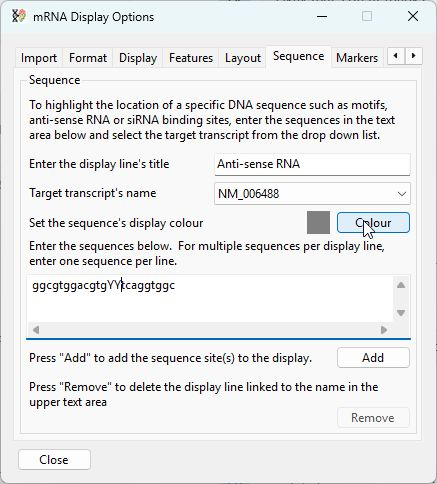
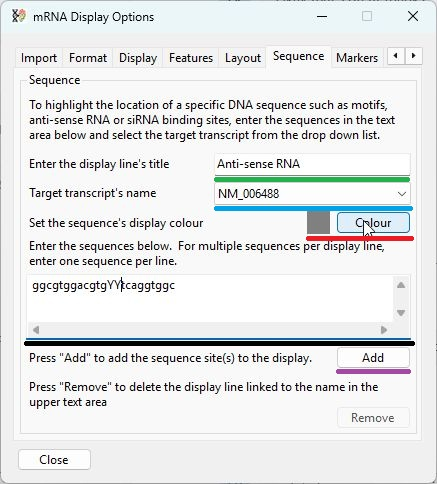
Updating the user guide

Changed region(s): [[0.476, 0.3409, 0.9519, 0.5269], [0.0595, 0.6818, 0.9519, 0.7128], [0.7735, 0.7438, 0.9519, 0.7748]]

diff --git a/TransGBViewer/mRNADisplayOptions.cs b/TransGBViewer/mRNADisplayOptions.cs
@@ -3203,6 +3203,9 @@ namespace TransGBViewer
         }
         private void txtSequenceDisplayname_TextChanged(object sender, EventArgs e)
         {
+            string name = txtSequenceDisplayname.Text.Trim();
+            if (name.Contains("#") == true)
+            { txtSequenceDisplayname.Text = name.Replace("#", ""); }
             SetSequenceButtonActivity();
         }
 
@@ -3329,7 +3332,7 @@ namespace TransGBViewer
                         (sequence[inner] == 'y' && (target[inner + index] == 'c' || target[inner + index] == 't')))
                     { score += 1; }
                 }
-                if ((float)score / sequencelength > scoreCutoff)
+                if ((float)score / sequencelength >= scoreCutoff)
                 {
                     if (score == bestScore) { hits.Add(index); }
                     if (score > bestScore)

diff --git a/Guide/SequencesOfInterest.md b/Guide/SequencesOfInterest.md
@@ -1,12 +1,98 @@
 ## List of contents
-
-
+- [Highlighting DNA sequences of interest](#highlighting-dna-sequences-of-interest)
+    - [Creating a display line](#creating-a-display-line)
+    - [Hit detection](#sequence-hit-detection)
+    - [Removing a display line](#removing-a-display-line)
+    - [Hit detection](#hit-detection)
 ---
 
 # Highlighting DNA sequences of interest
 
+## Creating a display line
+
 ![Figure 1](images/figureSequence1.jpg)
 
-The __Sequence__ tab of the __mRNA Display Options__ window provides controls for the selection and display of sequence's entered by the user. These sequences could represent the target site of an anti-sense RNA, a PCR primer binding site or region of interest  (Figure 1).
+The __Sequence__ tab of the __mRNA Display Options__ window provides controls for the selection and display of sequences entered by the user. These sequences could represent the target site of an anti-sense RNA, a PCR primer binding site or a region of interest  (Figure 1).
 
-The  __Sequence__ tab contains two text areas, a button and a drop-down list  that are used to describe the sequence(s) of interest. The upper area (blue line in Figure 2) 
+The process by which a line is added to the image that displays the location of a sequence of interest consists of four or five steps. 
+
+![Figure 2](images/figureSequence2.jpg)
+
+Figure 2
+
+---
+- First enter the label you wish the data line to display in the upper text area (green line in Figure 2). This label will also be used to identify the line and so must be unique as well as over three characters long. __Note:__  The __'#'__ cannot be used.
+- Next, select the accession ID of the sequence you know contains the sequence of interest using the drop-down list (blue line in Figure 2).
+- Optional: select the colour used to fill the shape that indicates the location of the sequence by pressing the __Colour__ button (red line in Figure 3).  By default, the shape is grey, as shown by the square to the left of the __Colour__ button. Pressing this button displays a window called __Select the shape's colour__ (Figure 3). This window in turn allows a colour to be selected by either its Windows system name if the __List of names__ option is selected (black line in Figure 12a) or using the Windows __colour picker dialog__ window if the Colour dialog box option is selected (green line in Figure 12) when the Colour button is pressed (red line in Figure 3).   
+
+    - [Using the Select colour by name dialog box](SequenceColour.md)
+    - [Using the Windows colour picker dialog box](ColourPickerDialog.md)
+
+![Figure 3](images/figureSequence2b.jpg)
+
+Figure 3.
+
+---
+
+- Next, enter the sequence(s) of interest into the lower larger text area (black line in Figure 2). These sequences must be in the same sense as the sequence in the transcript and not its reverse complement; consequently, anti-sense RNA or siRNA sequences must be reverse complemented. See the section [Hit detection](#Hit-detection). If you want to display more than one sequence on a display line, enter each sequence on a new line in the text area.
+- Finally, press the __Add__ button (purple line in Figure 2) to import and display the sequences. See Figures 4a and 4b.
+
+
+![Figure 4a](images/figureSequence3a.jpg)
+
+Figure 4a: To add a display line, first enter the require information in the __Sequence__ tab.
+
+
+
+![Figure 4b](images/figureSequence3b.jpg)
+
+Figure 4b: Once the information has been entered, pressing the __Add__ button clears the form and displays any hits in the image window.
+
+---
+
+## Removing a display line
+
+To remove a line displaying a sequence's location, enter the display line's label in the upper text area (green line in Figure 5) and the sequence used as the target in the drop-down list (blue line in Figure 5). If these values match a display line, the __Remove__ button will become active, and pressing it will remove the corresponding display line.
+
+__Note:__ The display line's text is case sensitive so __Anti-sense RNA__, __anti-sense RNA__, and __Anti-Sense RNA__ are all different and not interchangeable.
+
+
+## Hit detection
+Important points:
+
+- The search sequence can contain the upper and lower case letters: _A_, _C_, _G_ _T_, _R_, _Y_, _S_ and _W_, but not _U_. 
+- If a sequence contains _A_, _C_, _G_ _T_, _R_, _Y_, _S_ and _W_ characters, matches score as  1; for example, if __R__ is aligned to an __A__, the match is scored the same as if __A__ were matched to __A__ (See Table 1). 
+
+
+|Search term|Matching hits|
+|-|-|
+|_A_|_A_|
+|_C_|_C_|
+|_G_|_G_|
+|_T_|_T_|
+|_R_|_A_ or _G_|
+|_Y_|_C_ or _T_|
+|_S_|_C_ or _G_|
+|_W_|_A_ or _T_|
+
+Table 1: Characters in the search sequence and their matching hit characters in the transcript sequence.
+
+- Only hits in which at least 90% of positions are the same are displayed.
+- Only sequences with the best match are displayed. If two locations have the same best score, both will be displayed. If one hit is 100% identical and a 2nd hit is 99% identical, only the first hit will be displayed.
+
+
+![Figure 5a](images/figuresequence5a.jpg)
+
+Figure 5a.
+
+---
+
+- If two or more sequences are entered together, they will be drawn on the same line (blue shapes in Figure 5a). If they are entered separately, each sequence will be displayed on its own line (red shapes in Figure 5a).
+
+![Figure 5b](images/figuresequence5b.jpg)
+
+Figure 5b.
+
+---
+
+- If a sequence spans a splice site and the intron is highlighted as a gap, the shape identifying the hit is drawn as two fragments joined by a line (Figure 5b).

diff --git a/Guide/DATA.md b/Guide/DATA.md
@@ -1,7 +1,8 @@
 ## List of contents
 - [Importing sequence data](DATA.md#importing-sequence-data)
-    - [Important point](DATA.md#important-point)
+    - [Important points](DATA.md#important-points)
   - [Data selection](DATA.md#data-selection)
+  - [Importing sequences lacking exon boundary data](#importing-sequences-lacking-exon-boundary-data)
   - [Image description](DATA.md#image-description)
   - [Adjusting the location of alternatively spliced exons](DATA.md#adjusting-the-location-of-alternatively-spliced-exons)
  
@@ -9,9 +10,10 @@
 
 # Importing sequence data
 
-___TransGBViewer___ is designed to display linear mRNA sequence data downloaded from the NCBI website in the GenBank format using the *.gb or *.genbank file extensions. It is possible to import a single file containing multiple entries or a folder of files each containing one or more entries. All sequences should relate to the same gene in a single species.
+- ___TransGBViewer___ is designed to display linear mRNA sequence data downloaded from the NCBI website in the GenBank format using the *.gb or *.genbank file extensions. It is possible to import a single file containing multiple entries or a folder of files each containing one or more entries. All sequences should relate to the same gene in a single species.
+- ___TransGBViewer___ is designed to obtain exon boundary data from the GenBank file, generally speaking entires for accession ID's starting with **NM_** have this data, but other types of sequence such as those linked to ID's starting **MW** may not. Consequently, you should try to import entires with **NM_** IDs. If a set of imported sequences contains entires that lack exon boundary locations __TransGBViewer__ will attempt to identify exons, but this process is not robust and consecutive exons may appear as a single exon. For __TransGBViewer__ to process sequences lacking exon data, at least one of the entires must have this data.
 
-### Important point
+### Important points
  Since the GenBank files do not reference each other, sequence similarities are determined based on homology. Consequently, it is important that the sequences are highly homologous. Only sequences from the same species should be used, and ideally those submitted by the same group or by GenBank's own automated submission system used to annotate reference genomes.
 
 ## Data selection
@@ -31,6 +33,10 @@ Pressing the __Select__ button with the __Folder__ option ticked prompts you to 
 Figure 2: Pressing the __Select__ button with the __Folder__ option checked prompts you to select a folder of files.
 
 ---
+
+## Importing sequences lacking exon boundary data
+
+If one or more entires lack exon data, its name will be displayed in a message box asking if you wish to attempt to identify exons in these sequences. If you select __No__, these sequences will not be displayed, but their names/accession IDs will appear in the drop-down lists. Ideally, you will remove these sequences and reimport the data set.
 
 ## Image description
 

diff --git a/Guide/DISPLAY.md b/Guide/DISPLAY.md
@@ -170,9 +170,9 @@ Figure 11: Selecting a transcript's name from the dropdown list box (blue line) 
 
 ## Changing the colour of the lines used to highlight the donor and/or acceptor splice sites
 
-By default, the lines highlighting the splice sites are black; however, their colours can be changed by pressing the appropriate __Donor__ or __Acceptor__ button (blue line in Figure 12a). This will display a window called either  __Select the donor line colour__ or __Select the acceptor line colour__. This window in turn allow a colour to be selected by either its Windows system name if the __List of names__ option is selected (black line in Figure 12a) or using the Windows __colour picker dialog__ window if the __Colour dialod box__  option is selected (green line in Figure 12) when the __Colour__ button is pressed (red line in Figure 12).
+By default, the lines highlighting the splice sites are black; however, their colours can be changed by pressing the appropriate __Donor__ or __Acceptor__ button (blue line in Figure 12a). This will display a window called either  __Select the donor line colour__ or __Select the acceptor line colour__. This window in turn allow a colour to be selected by either its Windows system name if the __List of names__ option is selected (black line in Figure 12a) or using the Windows __colour picker dialog__ window if the __Colour dialog box__  option is selected (green line in Figure 12) when the __Colour__ button is pressed (red line in Figure 12).
 
-- [Using the Select colour by name dialog](equenceColour.md)
+- [Using the Select colour by name dialog](SequenceColour.md)
 - [Using the Windows colour picker dialog](ColourPickerDialog.md)
 
 The new colour will then be displayed next to the __Colour__ button. Pressing the __Accept__ button will then accept the changes and modify the blocks of colour next to the __Donor__ or __Acceptor__ buttons (blue lines in Figure 12b) and the image (black box in Figure 12b).
